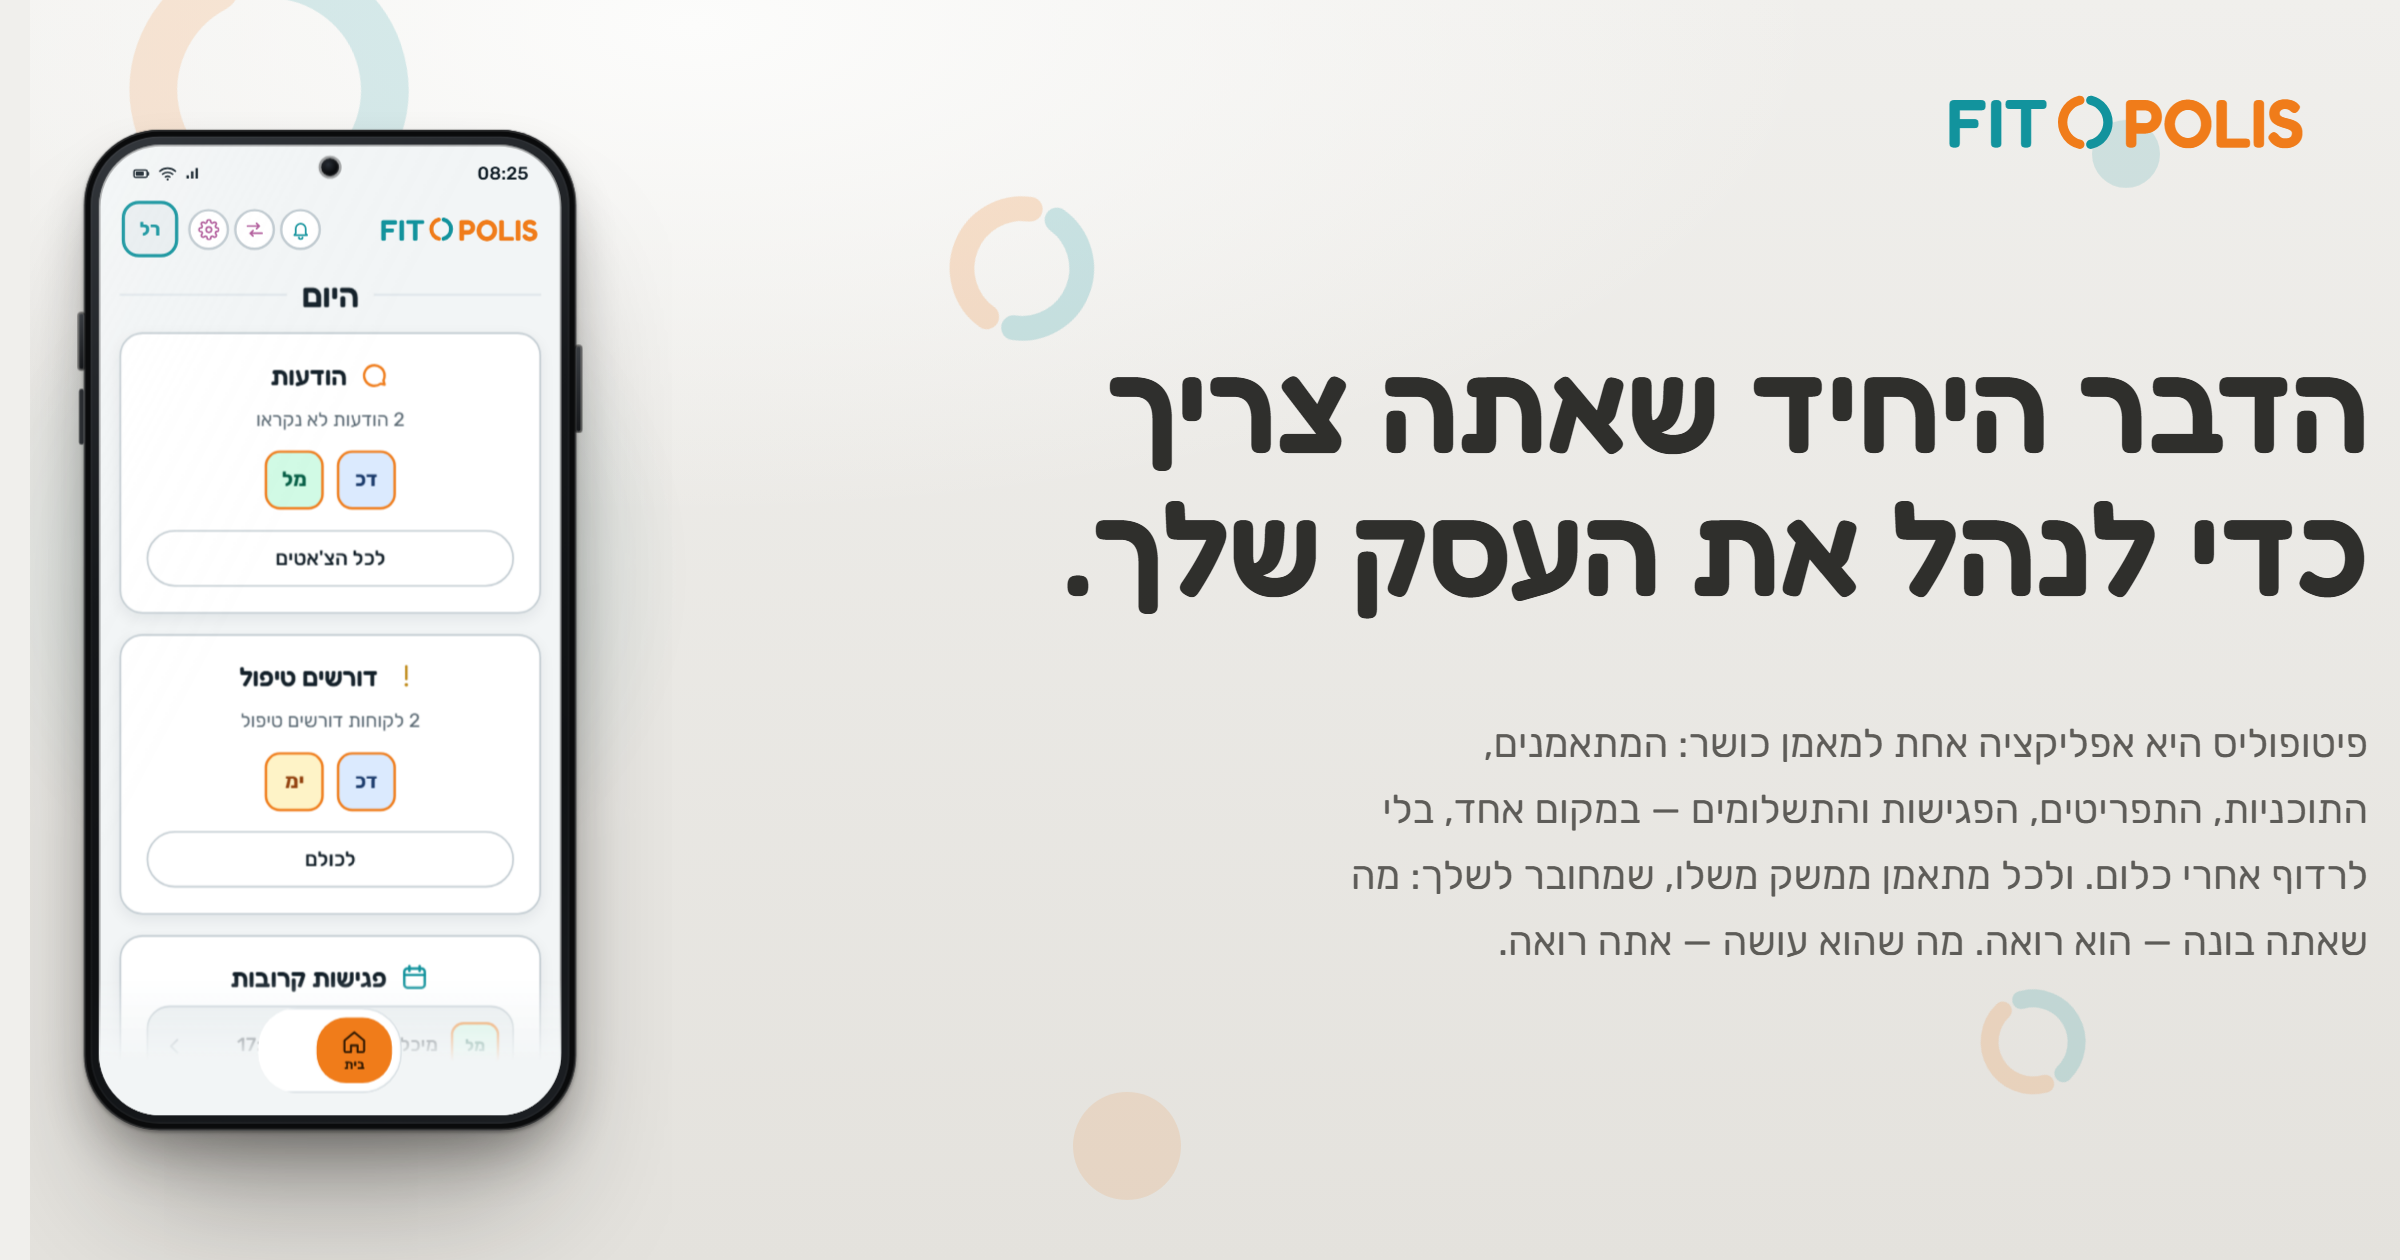
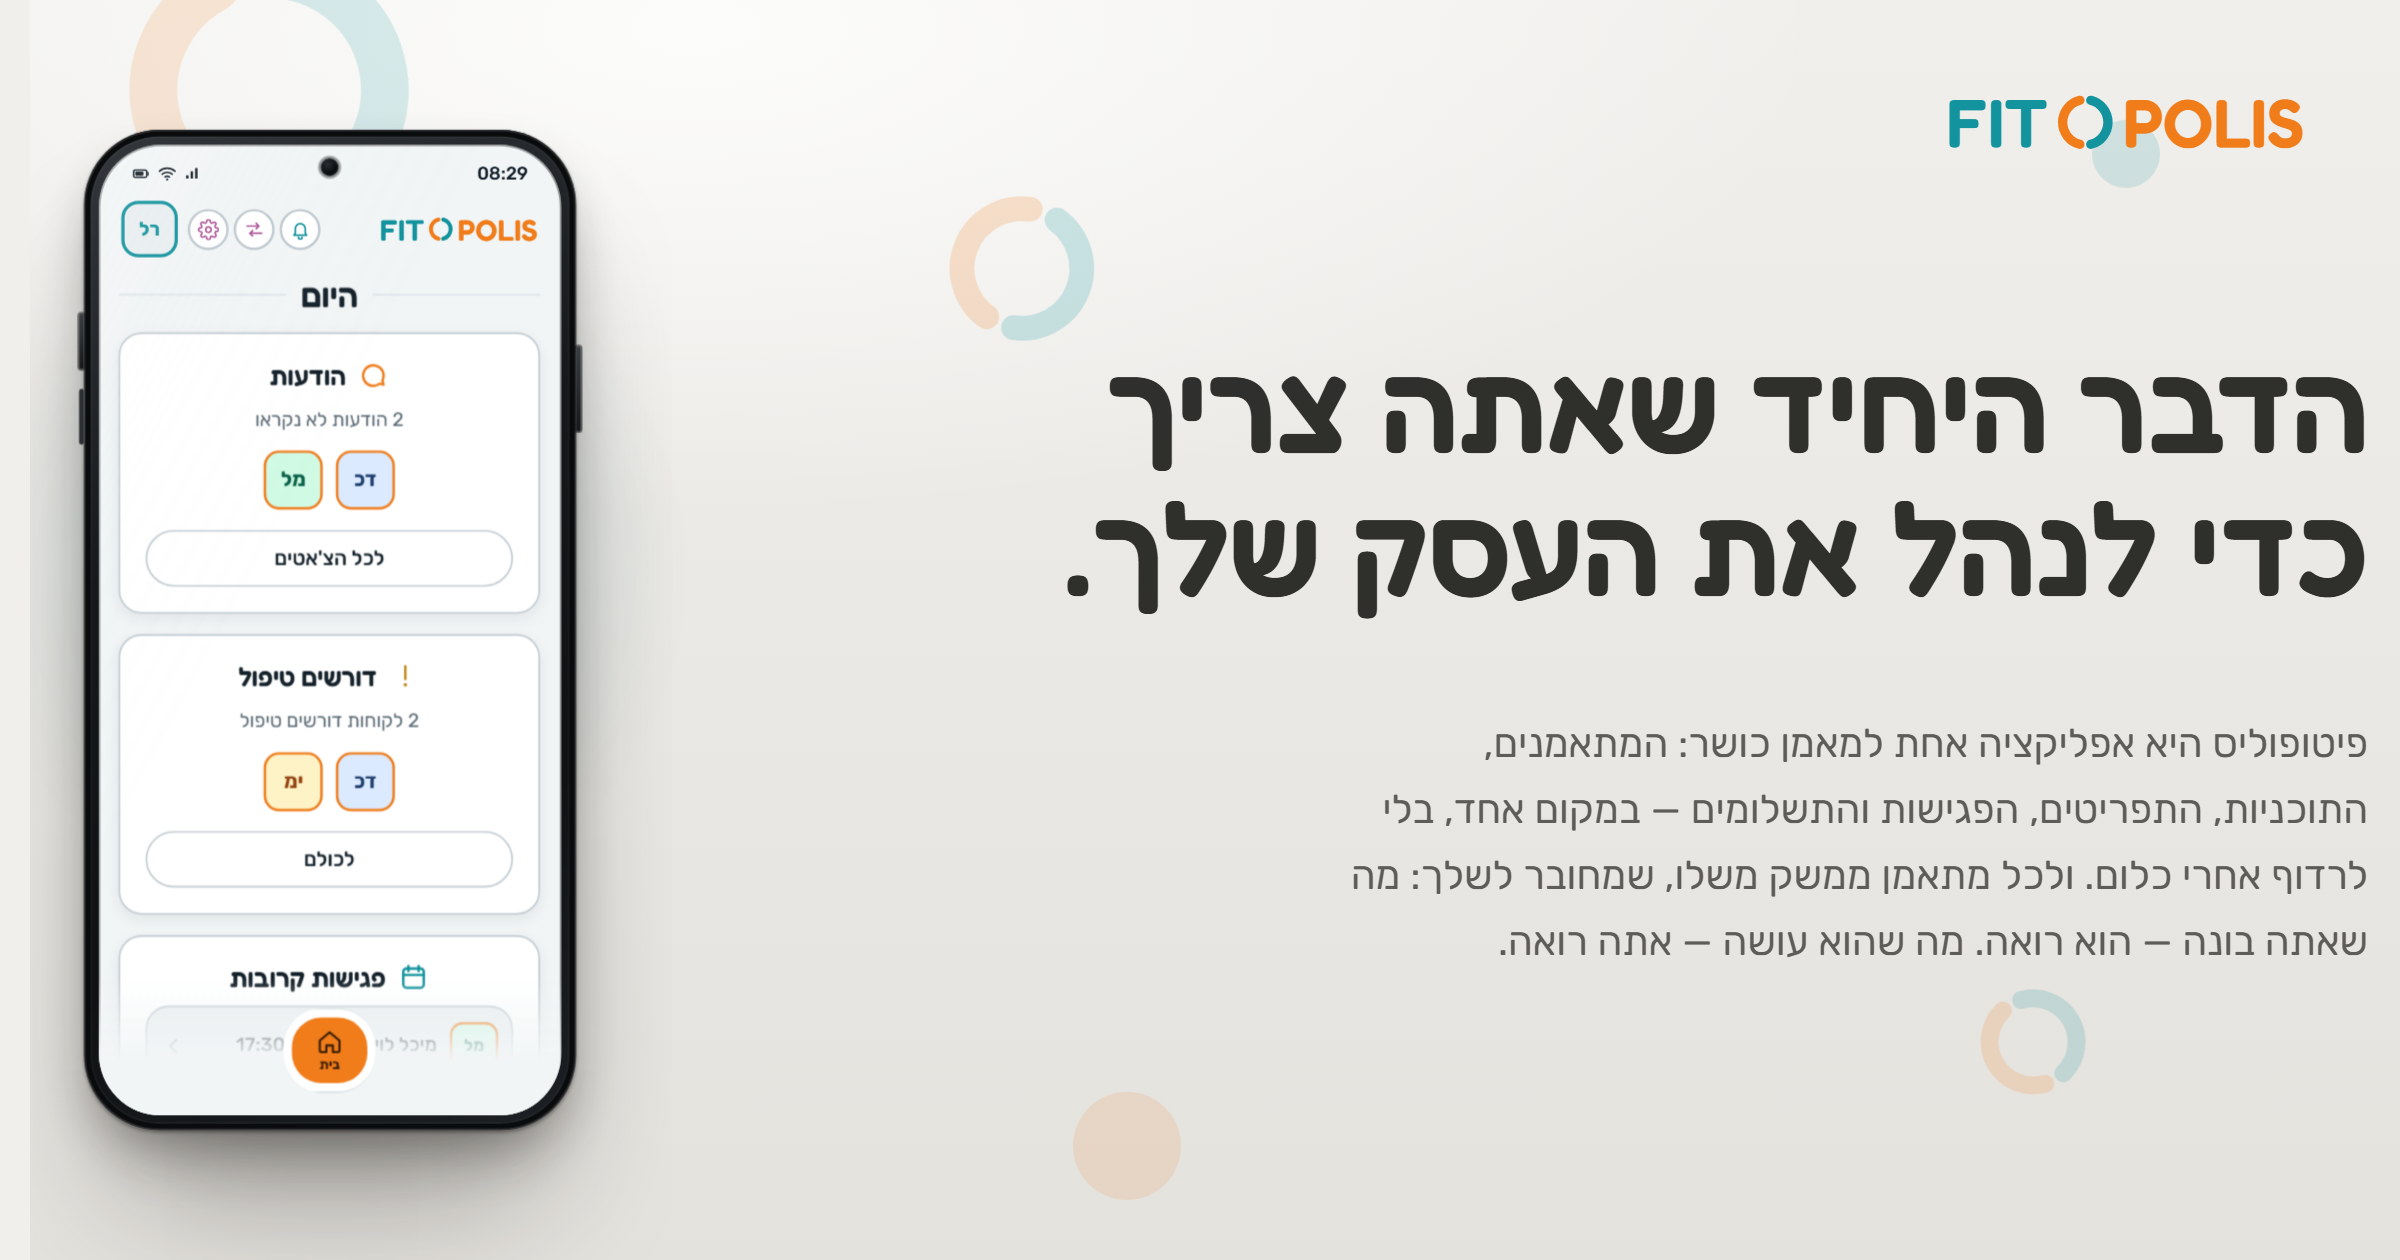
הגלולה נמדדת במרחב הפריסה (offset) — חסינה לסיבוב, להקטנה בתמונת השיתוף ולזום במסכים רחבים
הבר תמיד position: relative, כך שהוא ה-offsetParent של הטאבים בכל מצב
(transform הפך אותו לכזה רק כשהוא מכווץ). תמונת השיתוף נוצרה מחדש.

diff --git a/js/demo.js b/js/demo.js
@@ -275,12 +275,15 @@
   function fitNav(ph) {
     var nav = ph.nav, on = nav.querySelector('.dp-tab.is-on');
     if (!on) return;
-    var nr = nav.getBoundingClientRect(), tr = on.getBoundingClientRect(), pad = 5;
-    var right = Math.max(0, nr.right - tr.right - pad), left = Math.max(0, tr.left - nr.left - pad);
+    // מודדים ב-offset (מרחב הפריסה) ולא ב-getBoundingClientRect: כך המדידה לא מושפעת
+    // מסיבוב הטלפון, מהקטנה ב-transform (תמונת השיתוף) או מ-zoom במסכים רחבים.
+    // הבר הוא position: relative, ולכן הוא ה-offsetParent של הטאבים; offsetLeft נמדד מקצה הריפוד — מוסיפים את המסגרת
+    var navW = nav.offsetWidth, tW = on.offsetWidth, pad = 5;
+    var tL = on.offsetParent === nav ? on.offsetLeft + nav.clientLeft : on.offsetLeft - nav.offsetLeft;
+    if (!navW || !tW) return;
+    var left = Math.max(0, tL - pad), right = Math.max(0, navW - (tL + tW) - pad);
     nav.style.setProperty('--clip', 'inset(0 ' + right.toFixed(1) + 'px 0 ' + left.toFixed(1) + 'px round 24px)');
-    var m = new DOMMatrix(getComputedStyle(nav).transform);          // מנטרלים הזזה קודמת
-    var sliceCenter = (tr.left + tr.right) / 2 - m.m41, navCenter = (nr.left + nr.right) / 2 - m.m41;
-    nav.style.setProperty('--shift', 'translateX(' + (navCenter - sliceCenter).toFixed(1) + 'px)');
+    nav.style.setProperty('--shift', 'translateX(' + (navW / 2 - (tL + tW / 2)).toFixed(1) + 'px)');   // מרכז הבר פחות מרכז הטאב
   }
 
   function act(ph, a) {

diff --git a/css/style.css b/css/style.css
@@ -1771,6 +1771,7 @@ button.dp-row:active { background: var(--pf-alt); }
 
 /* ── בר הניווט: גלולה שמכווצת סביב הטאב הפעיל ונפתחת בלחיצה ── */
 .dp-nav {
+  position: relative;             /* תמיד ה-offsetParent של הטאבים — המדידה ב-fitNav לא תלויה במצב */
   pointer-events: auto;
   display: flex;
   align-items: center;
